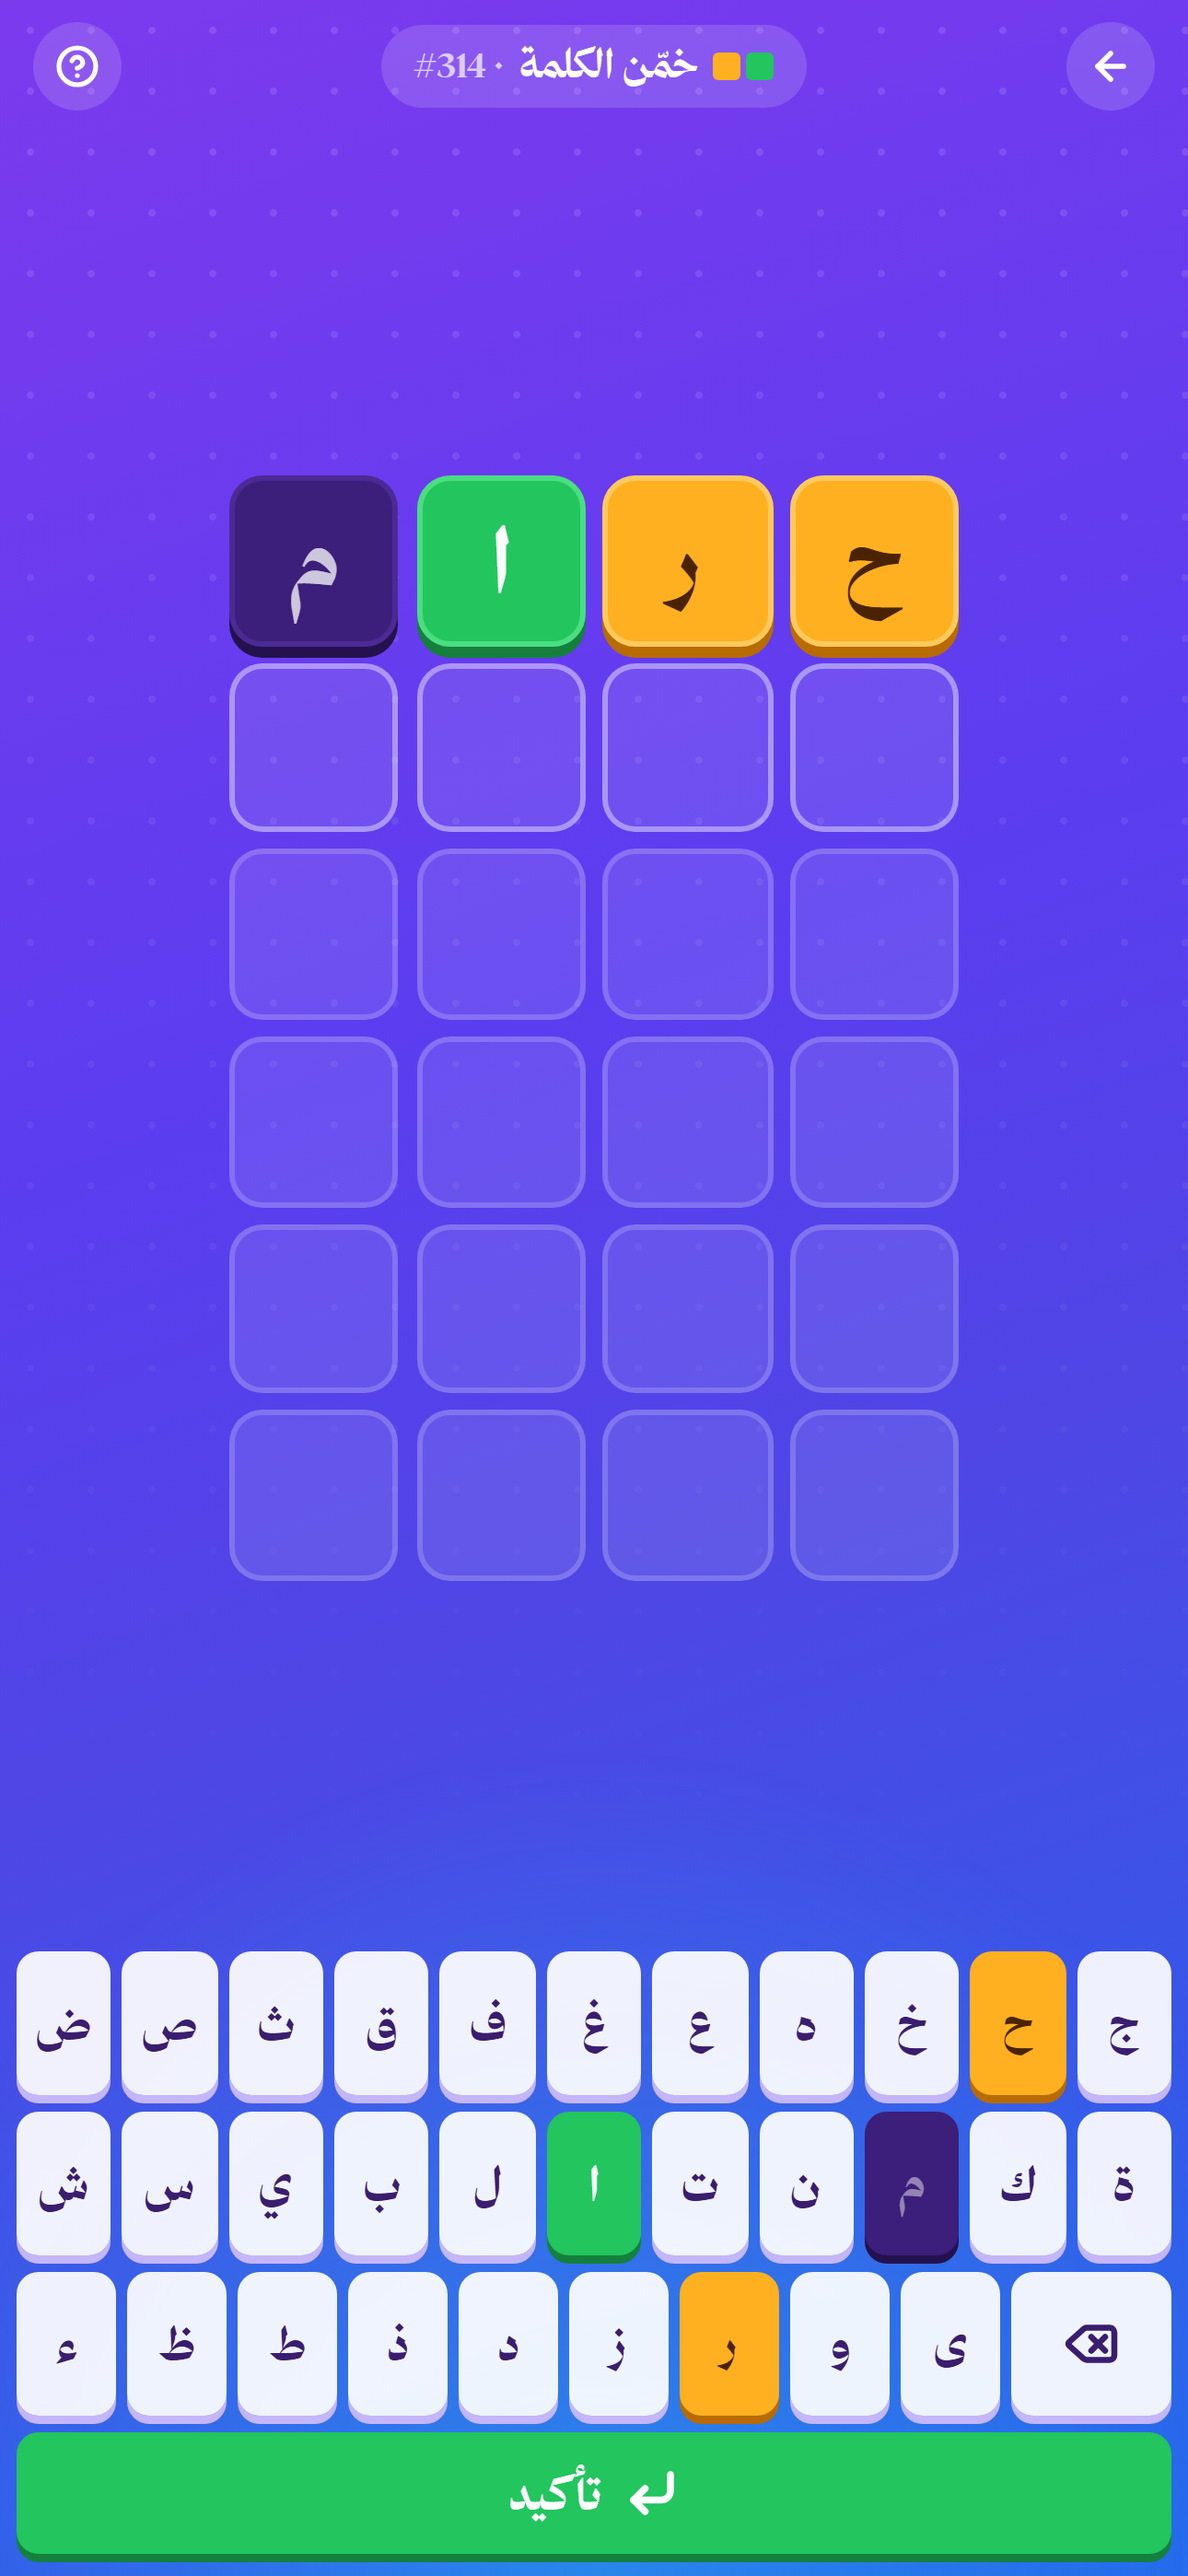
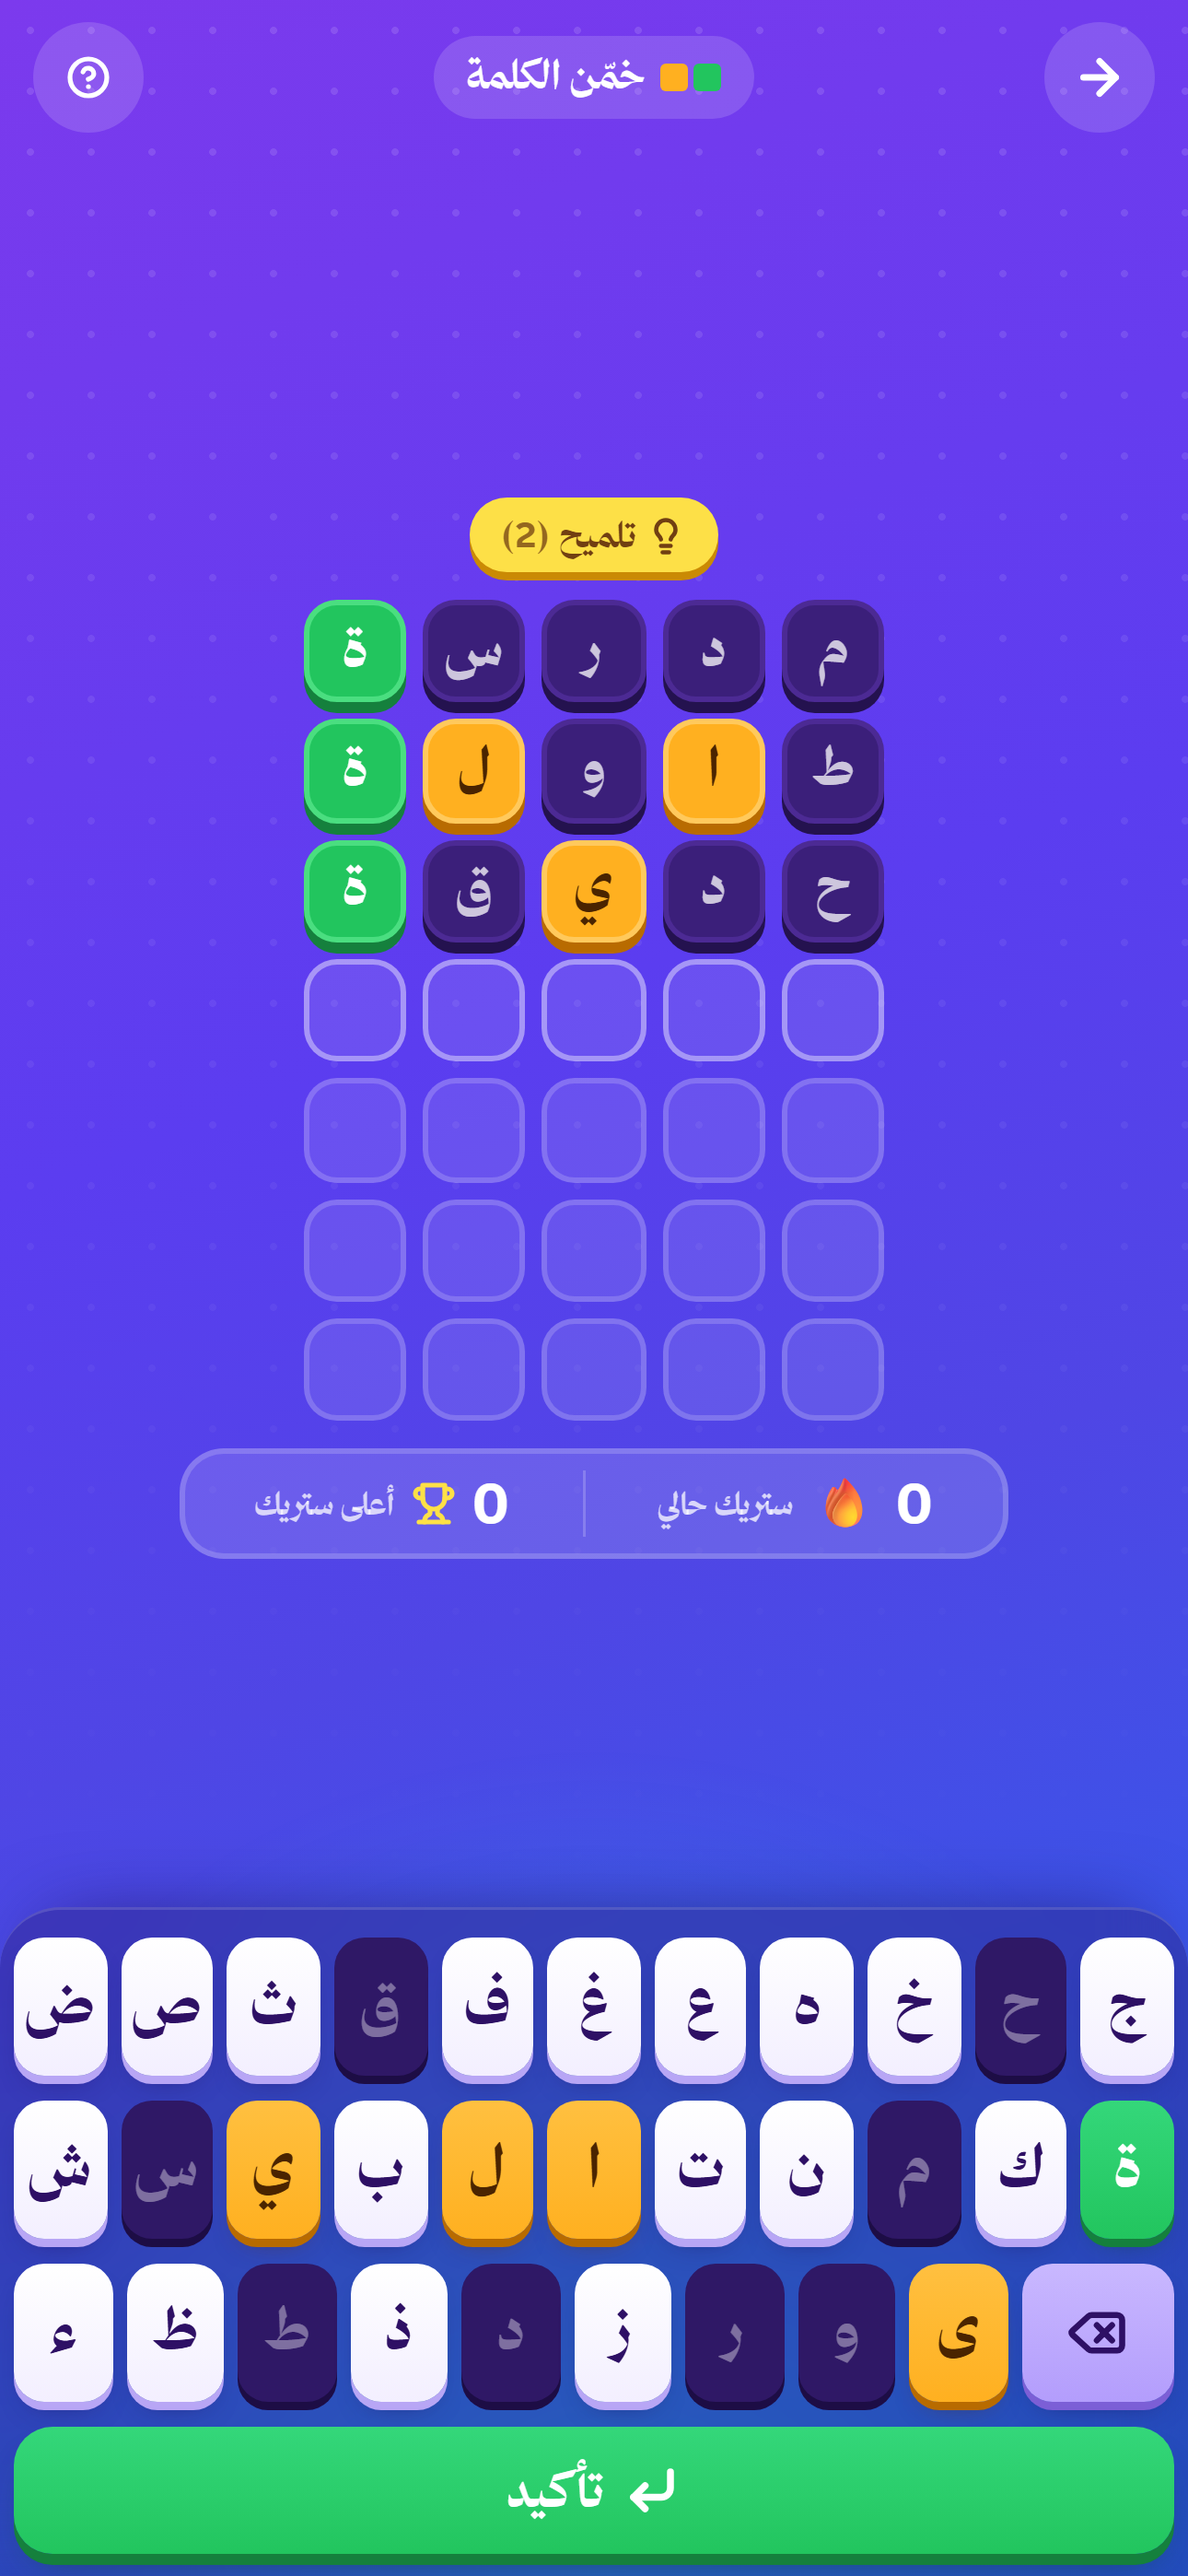
Store: fresh screenshots and updated listing; leaderboard 'you' label fix

diff --git a/components/Leaderboard.jsx b/components/Leaderboard.jsx
@@ -40,7 +40,7 @@ export default function Leaderboard({ onExit }) {
         {rank <= 3 ? <span className="text-2xl">{MEDAL[rank - 1]}</span> : <Num>{rank}</Num>}
       </div>
       <div className="flex-1 min-w-0">
-        <div className="font-display font-black truncate">{r.name}{highlight && <span className="text-xs opacity-75 mr-1">(أنت)</span>}</div>
+        <div className="font-display font-black truncate">{r.name ? <>{r.name}{highlight && <span className="text-xs opacity-75 mr-1">(أنت)</span>}</> : "أنت"}</div>
         {r.wins != null && <div className="text-[0.7rem] font-bold opacity-70"><Num>{r.wins}</Num> فوز</div>}
       </div>
       <div className="shrink-0 flex items-center gap-1 font-display font-black text-lg">
@@ -100,7 +100,7 @@ export default function Leaderboard({ onExit }) {
 
       {me && !meInTop && cur && !cur.error && (
         <div className="shrink-0 px-4 pb-3 pt-1">
-          {row({ name: me.name || 'أنت', score: me.score }, me.rank, true)}
+          {row({ name: me.name || '', score: me.score }, me.rank, true)}
         </div>
       )}
     </div>

diff --git a/store/listing.md b/store/listing.md
@@ -9,28 +9,32 @@
 تحدّى أصحابك بالكلمات العربية
 
 ## النص الترويجي (170 حرف)
-ثلاث ألعاب كلمات عربية في تطبيق واحد: ساعة الشطرنج، سباق الكلمات، وخمّن الكلمة. العبها لحالك أو تحدّى صاحبك أونلاين!
+لعبتين كلمات عربية في تطبيق واحد: تحدي النهايات وخمّن الكلمة. العب لحالك أو تحدّى صاحبك أونلاين، واجمع نقاط وتصدّر الترتيب!
 
 ## الوصف
-لعبة الكلمات = ثلاث ألعاب عربية ممتعة، وكل لعبة تقدر تلعبها لحالك أو مع صاحبك.
+لعبة الكلمات = لعبتين عربية ممتعة، وكل وحدة تلعبها لحالك أو مع صاحبك.
 
-⏱ ساعة الشطرنج
-نهاية وحدة للجولة كلها، وكل واحد يكتب كلمة بدوره قبل ما تخلص ساعته. العبها ضد الكمبيوتر، أو مع صاحبك أونلاين، أو على نفس الجوال.
-
-⚡ سباق الكلمات
-كل سؤال نهاية مختلفة، وأول واحد يكتب كلمة صحيحة ياخذ النقطة. جمّد خصمك أو تجاوز السؤال! أو تدرّب لحالك ضد الوقت وسجّل رقمك القياسي.
+🟧 تحدي النهايات
+اكتب كلمات تنتهي بحروف معيّنة قبل ما يخلص وقتك.
+• لحالك: ضد الكمبيوتر بالدور، أو ضد الوقت وسجّل رقمك القياسي.
+• مع صاحبك: بالدور ولكل واحد ساعته، أو سباق — أول واحد يكتب الكلمة ياخذ النقطة، مع تجميد الخصم وتجاوز السؤال.
 
 🟩 خمّن الكلمة
-اكتشف الكلمة المخفية بالألوان: الأخضر حرف صح بمكانه، والبرتقالي حرف موجود بمكان ثاني. بمستويين (3 و5 أحرف) مع تلميحات وستريك، أو تحدّى صاحبك على نفس الكلمة، أو اختر له كلمة يخمّنها.
+اكتشف الكلمة المخفية بالألوان: الأخضر حرف صح بمكانه، والبرتقالي حرف موجود بمكان ثاني.
+• ٣ أحرف (أسهل) أو ٥ أحرف (أصعب)، مع تلميحات وستريك.
+• مع صاحبك: خمّنوا نفس الكلمة واللي يحلها بمحاولات أقل يفوز، أو اختر له كلمة سرية (ومعها تلميح) وتفرّج عليه وهو يخمّن!
+
+🏆 النقاط والترتيب
+كل فوز يعطيك نقاط، وتنافس على ترتيب الأسبوع والترتيب العام.
 
 ✨ المميزات
-• قاموس عربي بأكثر من 1700 كلمة
-• لعب أونلاين برابط دعوة تشاركه على الواتساب
+• أكثر من 20 ألف كلمة عربية
+• لعب أونلاين بكود أو رابط دعوة على الواتساب
 • بدون تسجيل دخول، بدون إعلانات
-• الألعاب الفردية تشتغل بدون إنترنت
+• أصوات واحتفالات واهتزاز
 
 ## الكلمات المفتاحية (100 حرف، مفصولة بفواصل بدون مسافات)
-كلمات,عربي,ألغاز,تخمين,حروف,تحدي,أصدقاء,سباق,قاموس,لغة,ذكاء,ترفيه,عائلة
+كلمات,عربي,ألغاز,تخمين,حروف,تحدي,أصدقاء,سباق,قاموس,وردل,ذكاء,ترفيه,عائلة
 
 ## التصنيف
 - الأساسي: ألعاب ← كلمات (Word)
@@ -41,12 +45,14 @@
 
 ## روابط
 - سياسة الخصوصية: https://arabic-word-game.vercel.app/privacy
-- رابط الدعم (Support URL): نفس رابط الخصوصية أو موقع اللعبة
+- رابط الدعم (Support URL): https://arabic-word-game.vercel.app/privacy
 
 ## خصوصية التطبيق (App Privacy)
-- Data collection: **Yes** ← User Content → Other User Content (الاسم المستعار داخل غرفة اللعب)
+- Data collection: **Yes**
+  - User Content → Other User Content (الاسم المستعار + الكلمة السرية داخل غرفة اللعب)
+  - Identifiers → User ID (معرّف عشوائي للجهاز عشان النقاط والترتيب)
   - Linked to user: **No** — Used for tracking: **No** — الغرض: App Functionality
-- أو إذا تبي أبسط: Data Not Collected (الأسماء مستعارة ومؤقتة) — الأدق هو الخيار الأول.
 
 ## ملاحظات للمراجع (App Review → Notes)
-اللعبة لا تحتاج تسجيل دخول. لتجربة اللعب الجماعي: افتح أي لعبة ← "مع صاحبك" ← إنشاء غرفة، ثم افتح التطبيق على جهاز ثاني ← "عندك كود غرفة؟" وأدخل الكود. الألعاب الفردية (خمّن الكلمة، التدريب، ضد الكمبيوتر) تعمل مباشرة.
+No sign-in is required. Solo modes (Guess the Word, Endings vs computer / vs time) work immediately.
+To test multiplayer: Home → "مع صاحبك" → pick a game → "أنشئ غرفة". On a second device tap "ادخل بكود" and enter the 4-digit code.
